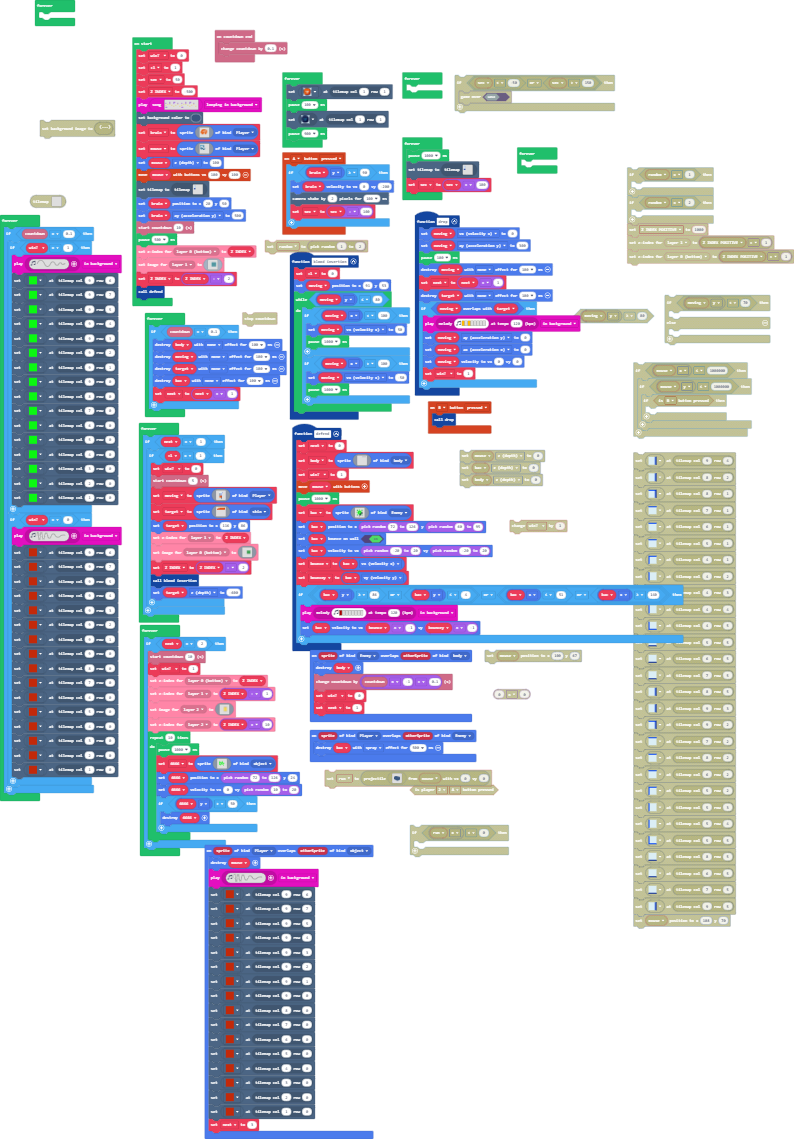
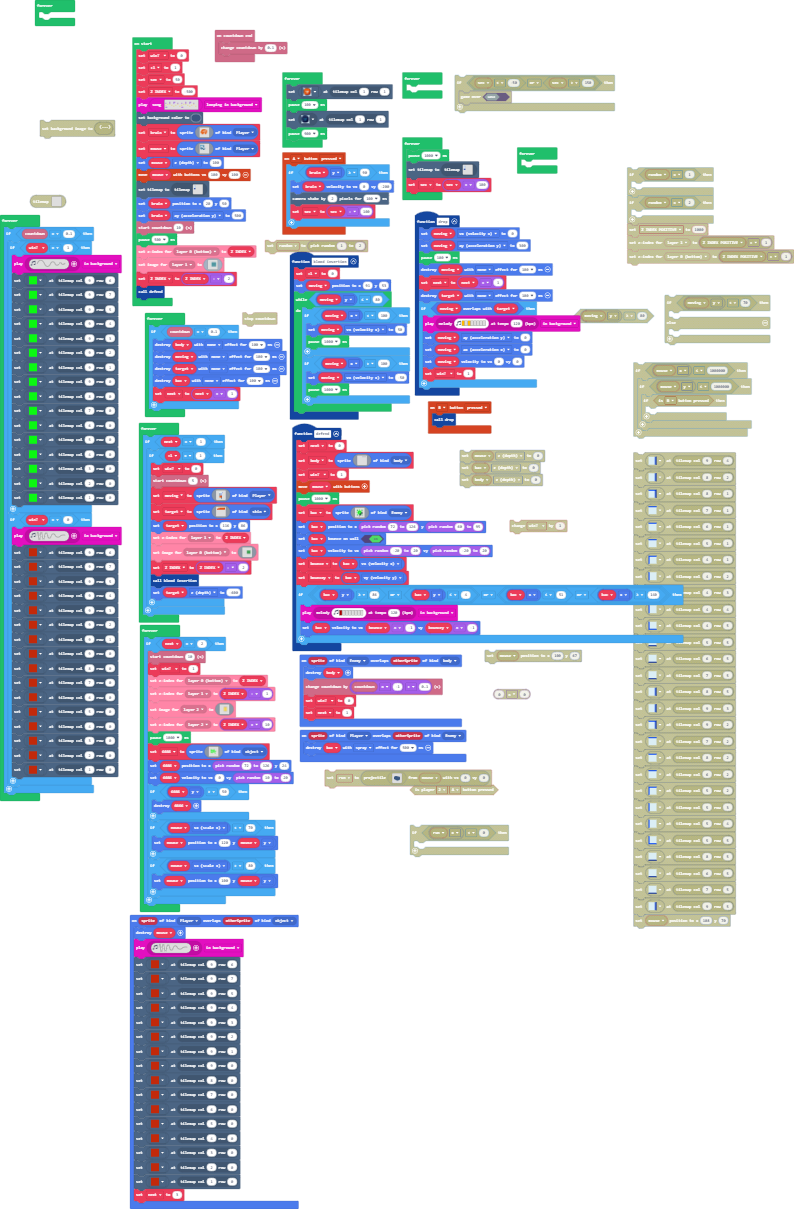
Update main.blocks, main.ts

diff --git a/main.ts b/main.ts
@@ -732,31 +732,35 @@ forever(function () {
             ................................................................................................................................................................
             `)
         scroller.setLayerZIndex(scroller.BackgroundLayer.Layer2, Z_INDEX + 10)
-        for (let index = 0; index < 10; index++) {
-            pause(1000)
-            _6666 = sprites.create(img`
-                . . . . . . . . . . . . . . . . 
-                . . . . . . . . . . . . . . . . 
-                . . . . . . . . . . . . . . . . 
-                . . 4 . . . . . . 4 . . . . . . 
-                . . 4 4 4 4 . . 4 4 . . . . . . 
-                . . 4 . . 4 4 4 4 . . . . . . . 
-                . . 4 . . . 4 4 . . 4 4 4 . . . 
-                . . 4 . . 4 4 . 4 4 4 . . . . . 
-                . . 4 4 4 4 . . 4 4 . . . . . . 
-                . . . 4 4 . 4 4 . . 4 . . . . . 
-                . . . . . 4 . . . . 4 4 . . . . 
-                . . . . . . . . . . . . . . . . 
-                . . . . . . . . . . . . . . . . 
-                . . . . . . . . . . . . . . . . 
-                . . . . . . . . . . . . . . . . 
-                . . . . . . . . . . . . . . . . 
-                `, SpriteKind.object)
-            _6666.setPosition(randint(72, 126), 24)
-            _6666.setVelocity(0, randint(10, 20))
-            if (_6666.y > 50) {
-                sprites.destroy(_6666)
-            }
+        pause(1000)
+        _6666 = sprites.create(img`
+            . . . . . . . . . . . . . . . . 
+            . . . . . . . . . . . . . . . . 
+            . . . . . . . . . . . . . . . . 
+            . . 4 . . . . . . 4 . . . . . . 
+            . . 4 4 4 4 . . 4 4 . . . . . . 
+            . . 4 . . 4 4 4 4 . . . . . . . 
+            . . 4 . . . 4 4 . . 4 4 4 . . . 
+            . . 4 . . 4 4 . 4 4 4 . . . . . 
+            . . 4 4 4 4 . . 4 4 . . . . . . 
+            . . . 4 4 . 4 4 . . 4 . . . . . 
+            . . . . . 4 . . . . 4 4 . . . . 
+            . . . . . . . . . . . . . . . . 
+            . . . . . . . . . . . . . . . . 
+            . . . . . . . . . . . . . . . . 
+            . . . . . . . . . . . . . . . . 
+            . . . . . . . . . . . . . . . . 
+            `, SpriteKind.object)
+        _6666.setPosition(randint(72, 126), 24)
+        _6666.setVelocity(0, randint(10, 20))
+        if (_6666.y > 50) {
+            sprites.destroy(_6666)
+        }
+        if (mouse.sx < 70) {
+            mouse.setPosition(120, mouse.y)
+        }
+        if (mouse.sx > 80) {
+            mouse.setPosition(100, mouse.y)
         }
     }
 })
